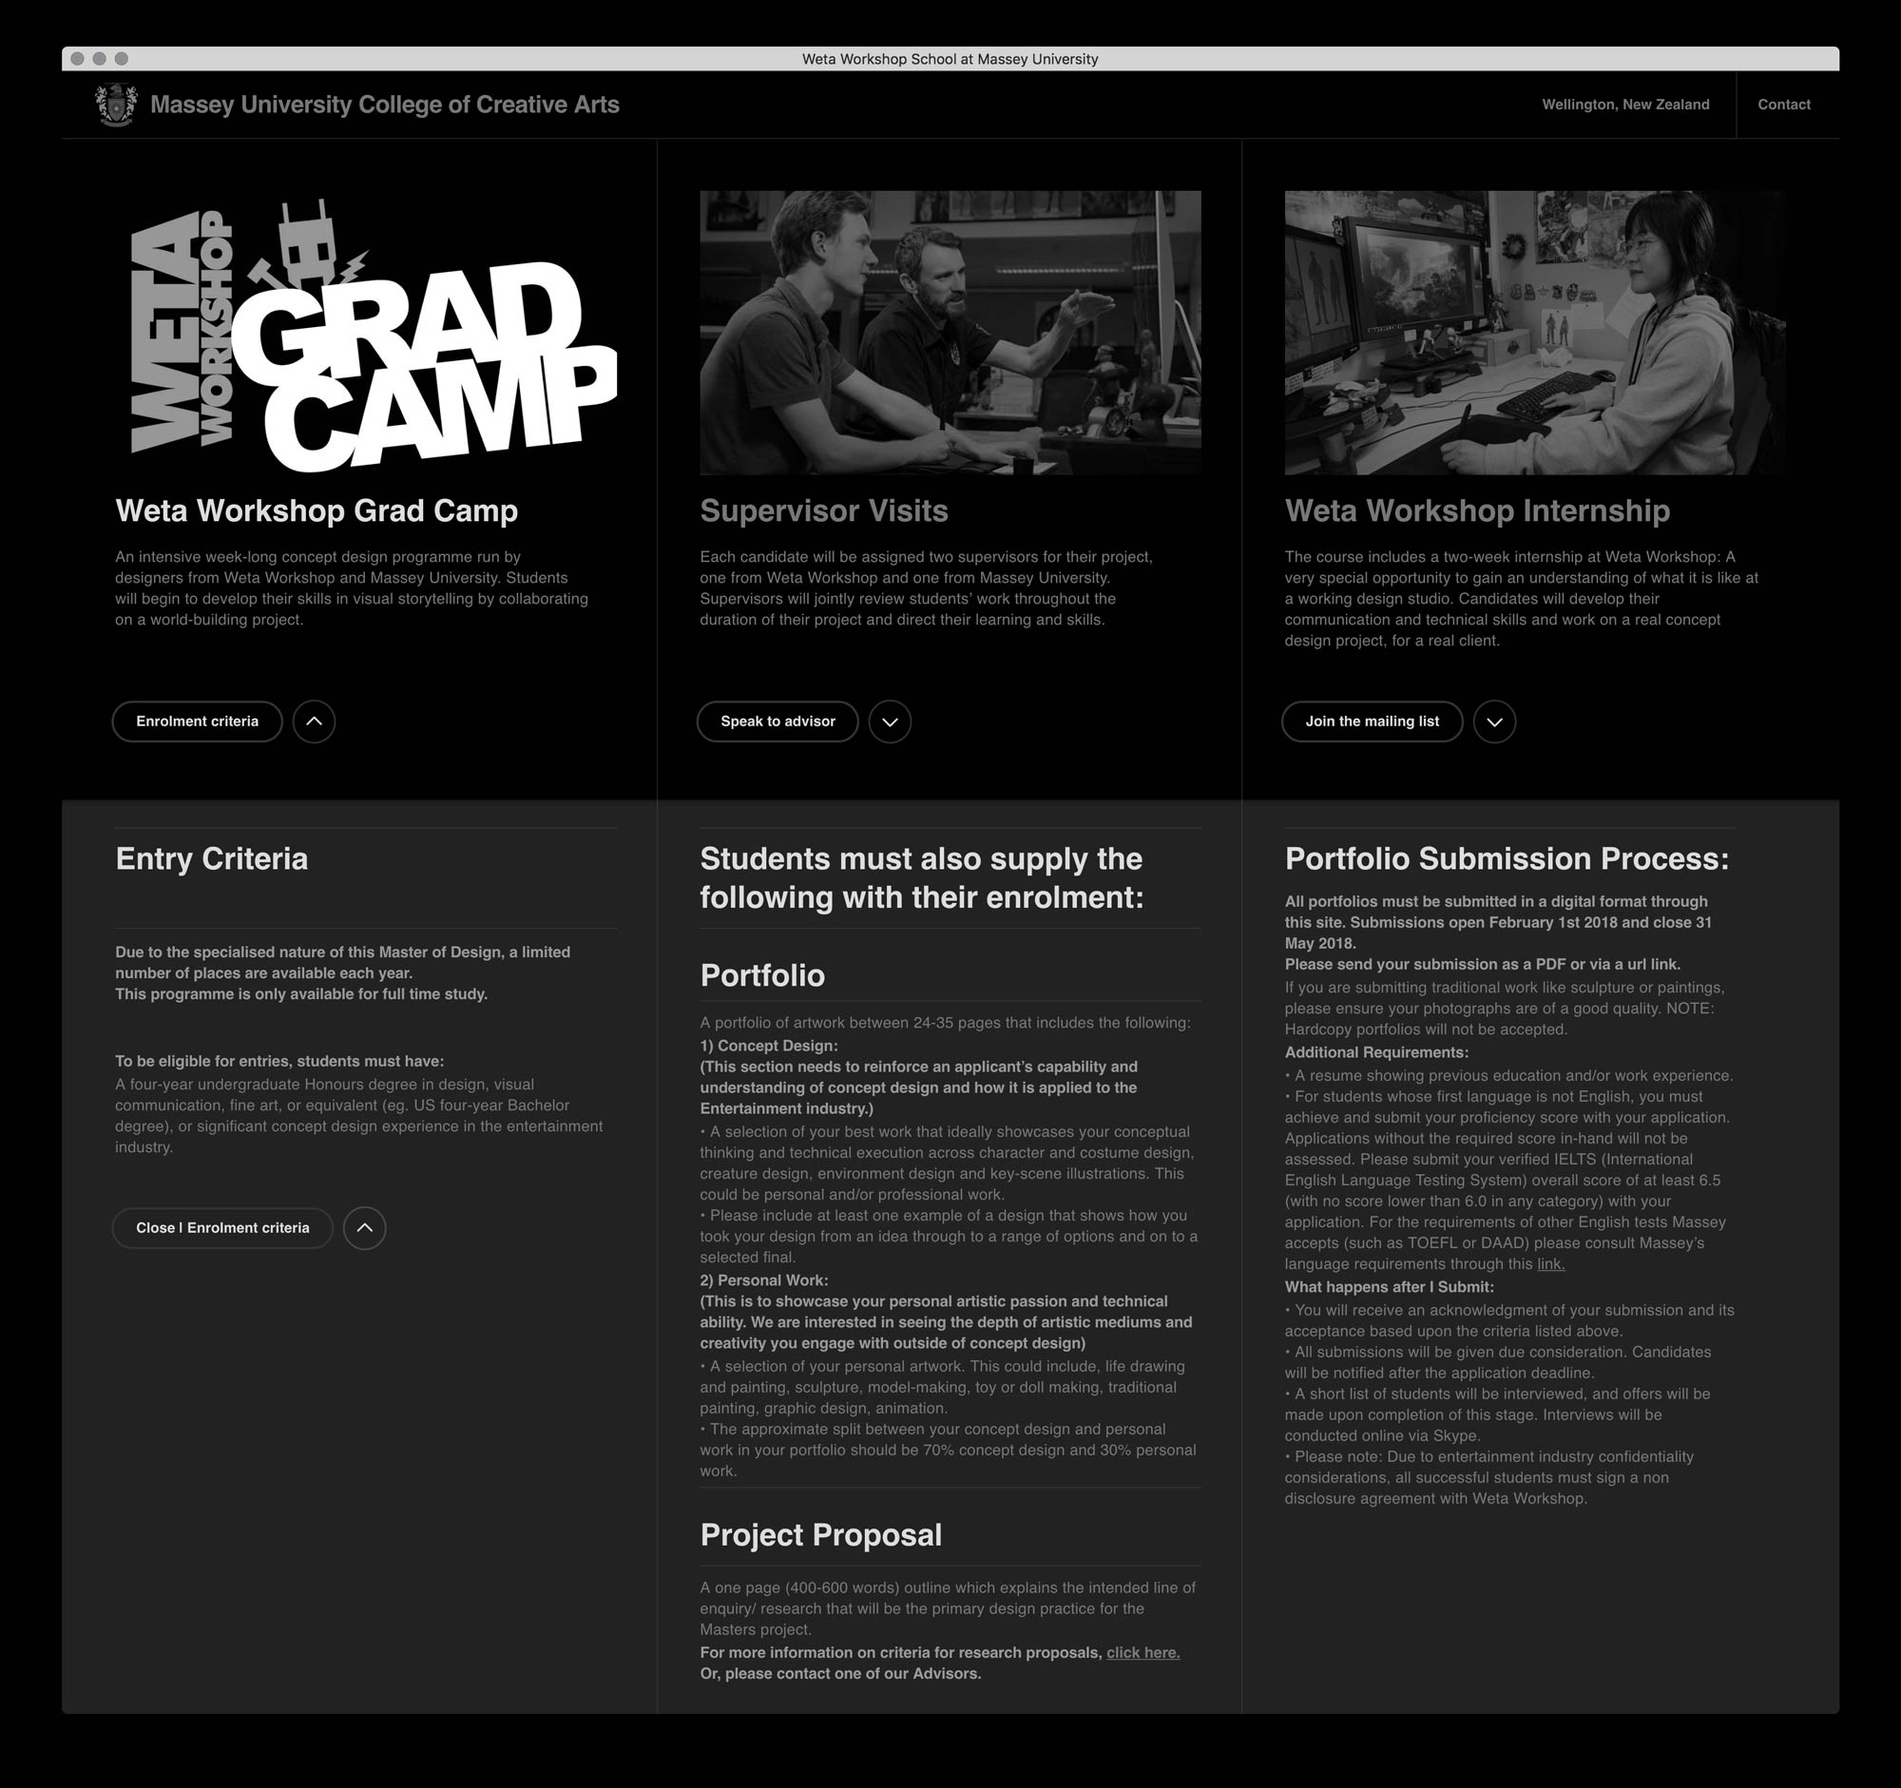
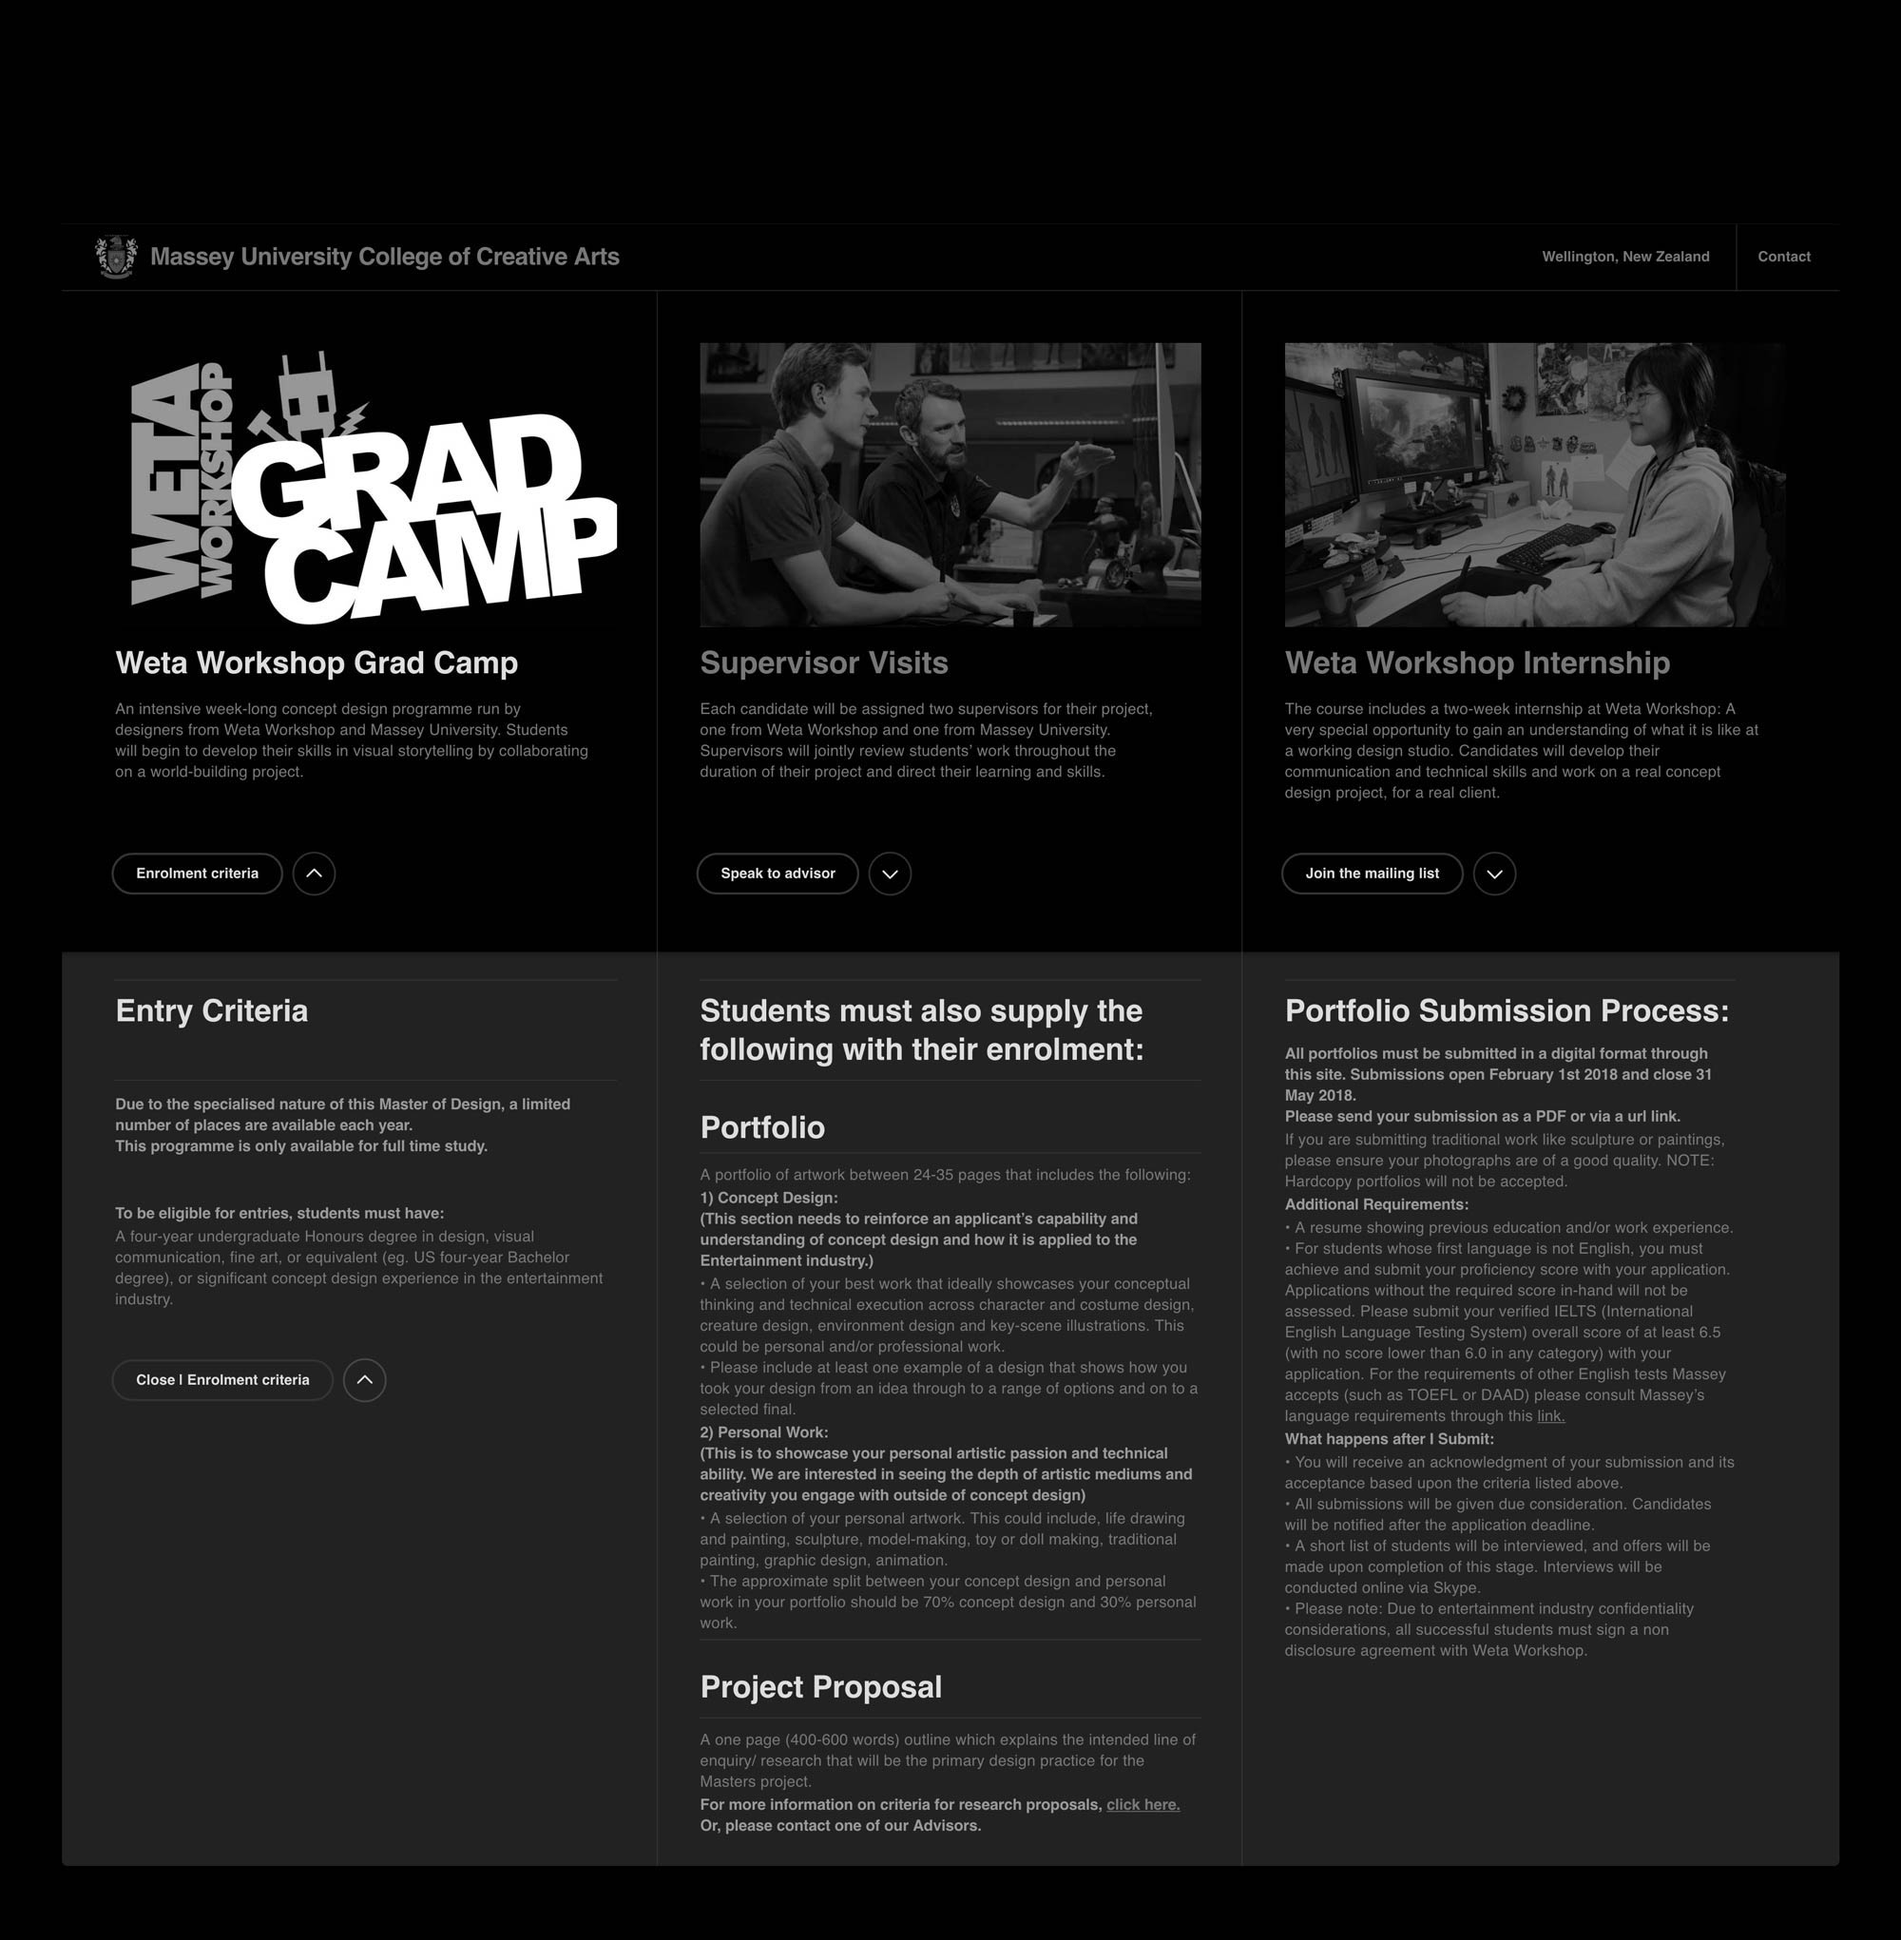
v2.9.7.4

Changed region(s): [[0.031, 0.0925, 0.992, 0.9867], [0.031, 0.0, 0.961, 0.0617]]

diff --git a/index.html b/index.html
@@ -611,7 +611,7 @@
       </figure>
     </a>
   </article>    
-  <article class="col-9">
+  <article class="col-10">
     <a class="open-link" target="_blank" href="http://wetaworkshopschool.massey.ac.nz/">
      <figure>
         <img class="bw" src="assets/images/weta/weta1.jpg" alt="Homepage, Weta Workshop School at Massey University">
